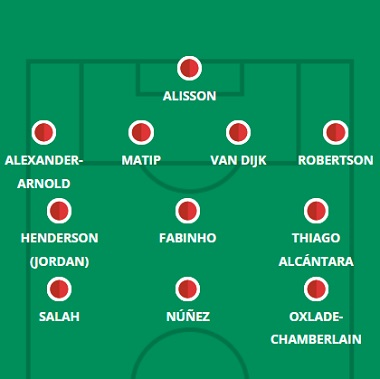
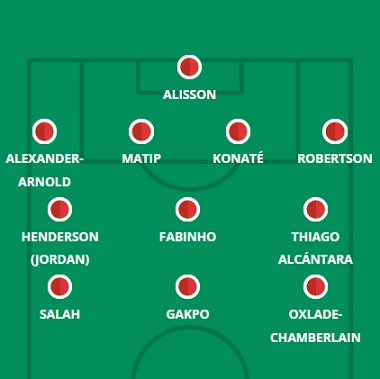
12/20

diff --git a/brentford.html b/brentford.html
@@ -63,15 +63,15 @@
     <hgroup>
         <h1> Provável Escalação</h1>
         <h2 class="direita"> por FabioVascão </h2>
-        <h3 class="direita"> Atualizado em 30/Novembro/2022 </h3>
+        <h3 class="direita"> Atualizado em 13/Janeiro/2023 </h3>
     </hgroup>
 
     <div class="selecao"><p><b><img src="images/logos/brentford.png" width="100rem" height="100rem"/> Brentford</b></p></div>
        
     <div class="escalacao">
         <div class="topo">
-            <h2 class="titulo">Ultimas Notícias</h2> <h4><p> Aaron Hickey (tornozelo), Kristoffer Ajer (joelho), Shandon Baptiste (músculo) e Frank Onyeka (coxa) não estão muito longe de retornar, mas devem ficar de fora novamente, enquanto Thomas Strakosha (tornozelo) pode estar de volta ao banco contra o West Ham depois de vários meses fora. A principal decisão de Thomas Frank será se deve começar com a formação 3-5-2 que ele normalmente reserva para os times 'maiores' e que funcionou bem contra os Spurs na primeira hora ou reverter para a configuração 4-3-3 que nós Estamos acostumados a ver Brentford adotar quando enfrenta lados ao seu redor. Os Hammers foram despachados por 2 a 0 em abril com os Bees na defesa, então há uma chance de que Zanka seja substituído como o meio-campo excedente no leste de Londres. Keane Lewis-Potter, Yoane Wissa e Sergi Canos são todas as possibilidades de figurar nos três primeiros se conseguirmos uma mudança de sistema, enquanto Josh Da Silva, Mikkel Damsgaard e Saman Ghoddos são alternativas de meio-campo se Frank estiver de olho no punitivo 68 Retorno de uma hora entre as rodadas 18 e 19. O influente Christian Norgaard, recentemente recuperado de uma lesão de longa duração, é certamente alguém que pode ter seus minutos administrados nos próximos dias.</p></h4><br>
-            <h4><strong>Dúvidas:</strong> Ajer, Baptiste, Hickey, Onyenka e Strakosha. </h4>
+            <h2 class="titulo">Ultimas Notícias</h2> <h4><p> Pontus Jansson (coxa), Shandon Baptiste (músculo), Frank Onyeka (coxa) e Aaron Hickey (condição física) permaneceram afastados, mas Ivan Toney (músculo) está de volta disponível e, nas palavras de seu técnico, será titular neste fim de semana. Thomas Frank pode estar em um dilema em relação à formação inicial, já que a implantação do 3-5-2 que ele normalmente usa contra os seis times grandes fez com que os Bees saíssem invictos de uma sequência de quatro partidas muito complicada. Mas a visita ao Bournemouth, sem um gol no campeonato desde novembro, sem dúvida tentará o técnico do Brentford a revisitar um 4-3-3 mais ofensivo, talvez eliminando um zagueiro excedente na forma de Zanka e substituindo-o por um terceiro atacante. ; Yoane Wissa, Keane Lewis-Potter, Mikkel Damsgaard, Sergi Canos e o novo garoto Kevin Schade estarão competindo por uma vaga ao lado de Toney e Bryan Mbeumo se isso acontecer. O artilheiro da rodada 18, Josh Da Silva, também pode substituir Vitaly Janelt se Frank optar por uma abordagem mais ofensiva e Kristoffer Ajer for uma alternativa a Mads Roerslev como lateral-direito, mas Mbeumo, Toney, Christian Norgaard, Mathias Jensen, Rico Henry, Ben Mee e Ethan Pinnock parecem ter certeza de começar qualquer que seja a configuração.</p></h4><br>
+            <h4><strong>Dúvidas:</strong> Baptiste, Hickey, Onyenka e Jansson. </h4>
         </div>
         <aside>
             <figure>

diff --git a/arsenal.html b/arsenal.html
@@ -63,15 +63,15 @@
     <hgroup>
         <h1> Provável Escalação</h1>
         <h2 class="direita"> por FabioVascão </h2>
-        <h3 class="direita"> Atualizado em 30/Novembro/2022 </h3>
+        <h3 class="direita"> Atualizado em 13/Janeiro/2023 </h3>
     </hgroup>
 
     <div class="selecao"><p><b><img src="images/logos/arsenal.svg" width="100rem" height="100rem"/> Arsenal</b></p></div>
        
     <div class="escalacao">
         <div class="topo">
-            <h2 class="titulo">Ultimas Notícias</h2> <h4><p> Mikel Arteta não dará sua conferência de imprensa pré-jogo até o final da tarde de sexta-feira, então teremos um aviso muito curto sobre se algum de seus jogadores se juntou a Gabriel Jesus (joelho) e Reiss Nelson (músculo) na lista de lesões e se Takehiro Tomiyasu (coxa) e Emile Smith Rowe (virilha) estão aptos o suficiente para voltar ao time em Brighton. Alguém que voltou ao time da rodada na 17ª rodada foi Oleksandr Zinchenko, que foi nomeado entre os reservas e emergiu para uma participação especial de 17 minutos contra o West Ham. A vaga de lateral-esquerdo de Kieran Tierney é provavelmente a única em disputa no Amex, com Zinchenko aparentemente a primeira escolha de Arteta nessa posição quando está em forma, mas sem qualidade de jogo depois de não ter participado de nenhum dos amistosos pré-reinício dos Gunners. Quanto ao resto do XI previsto, todos eles - exceto o substituto de Jesus, Eddie Nketiah - começaram todas as partidas da liga para as quais estiveram disponíveis em 2022/23. Arteta preferiu o ímpeto ao frescor da última vez que os Gunners foram apresentados com três jogos da liga em uma semana e com cinco dias entre as semanas 16 e 17, não esperamos uma rotação em massa na costa sul.</p></h4><br>
-            <h4><strong>Dúvidas:</strong> Jesus, Nelson, Smith-Rowe  e Tomiyasu.</h4>
+            <h2 class="titulo">Ultimas Notícias</h2> <h4><p> Tendo dito anteriormente que Bukayo Saka estava "bem" após sua substituição forçada no Oxford United na segunda-feira, Mikel Arteta introduziu o menor elemento de dúvida - "Acho que ele ficará bem" - para manter todos em dúvida antes do derby do norte de Londres. Em outros lugares, Gabriel Jesus (joelho) e Reiss Nelson (músculo) permanecem na lista de lesões, mas o Arsenal tem um atestado de saúde indo para o derby do norte de Londres, com Emile Smith Rowe fazendo seu tão esperado retorno como reserva no meio da semana. O XI titular dos Gunners tem sido sem dúvida o time mais fácil de prever em 2022/23, tal tem sido a preferência de Mikel Arteta por impulso enquanto suas tropas estão no topo da divisão. Neste XI aqui, todos, exceto o substituto de Jesus, Eddie Nketiah e Oleksandr Zinchenko, começaram todas as partidas da liga para as quais estiveram disponíveis em 2022/23. Mesmo assim, sabemos que Zinchenko é a primeira escolha de Arteta como lateral-esquerdo (seu único banco veio de uma lesão) e Nketiah está privado de uma competição significativa enquanto Jesus permanecer indisponível. Fabio Vieira entraria na equação se Saka perdesse, com Marquinhos ainda menos testado neste nível e Smith-Rowe certamente ainda não está pronto para começar.</p></h4><br>
+            <h4><strong>Dúvidas:</strong> Jesus, Nelson e Saka.</h4>
         </div>
         <aside>
             <figure>

diff --git a/spurs.html b/spurs.html
@@ -63,15 +63,15 @@
     <hgroup>
         <h1> Provável Escalação</h1>
         <h2 class="direita"> por FabioVascão </h2>
-        <h3 class="direita"> Atualizado em 30/Novembro/2022 </h3>
+        <h3 class="direita"> Atualizado em 13/Janeiro/2023 </h3>
     </hgroup>
 
     <div class="selecao"><p><b><img src="images/logos/tottenham.png" width="100rem" height="100rem"/> Tottenham</b></p></div>
        
     <div class="escalacao">
         <div class="topo">
-            <h2 class="titulo">Ultimas Notícias</h2> <h4><p> Cristian Romero retorna da seleção com a Argentina para reforçar os números do Spurs na defesa, mas Rodrigo Bentancur, embora livre de suspensão, requer uma ressonância magnética em uma lesão na virilha e permanece de fora. Lucas Moura (tendão) e Richarlison (coxa) ainda afastados aparentemente consolidariam as partidas para os três primeiros que alinharam em Brentford, enquanto a ausência de Bentancur traz boas notícias para as perspectivas de Yves Bissouma em tempo de jogo. Existem alternativas em cada caso (Bryan Gil e Oliver Skipp), mas eles tiveram apenas duas partidas na liga nesta temporada e nem foram chamados como substitutos na 17ª rodada. expulsando Japhet Tanganga do papel de zagueiro direito, com Romero assumindo seu lugar se estiver totalmente recarregado e Davinson Sanchez entrando em cena, caso contrário. Com seis dias separando os jogos da Gameweek 17 e 18 do Spurs, a fadiga não deve ser o problema que costuma ser nesta época do ano. Clement Lenglet, Ivan Perisic e Matt Doherty esperam manter suas camisas para a visita do Villa, mas com um confronto com o Crystal Palace 72 horas depois deste, Ben Davies, Ryan Sessegnon e Emerson Royal poderão em breve dar uma olhada - nas três posições de maior risco. Hugo Lloris certamente retornará aqui também, tendo estado apenas no banco no Boxing Day após seu retorno tardio da Copa do Mundo.</p></h4><br>
-            <h4><strong>Dúvidas:</strong> Richarlison, Lucas Moura, Spence e Bentancur.</h4>
+            <h2 class="titulo">Ultimas Notícias</h2> <h4><p> Antonio Conte disse na sexta-feira que “acha” que Dejan Kulusevski (músculo) estará “pronto para jogar”, mas acrescentou que o clube não “correrá riscos” com Rodrigo Bentancur (virilha) e Richarlison (coxa), que, no entanto, estão se aproximando um retorno e será avaliado em treinamento. Lucas Moura (tendão) também segue de fora. Por melhor que Bryan Gil tenha sido ultimamente, não seria uma surpresa ver Kulusevski cair de pára-quedas direto para os três primeiros, dada a sua importância anterior para a equipe e considerando que ele está fora de ação há apenas quinze dias. O retorno de Yves Bissouma da suspensão e uma pequena lesão também é oportuno se Bentancur não estiver em risco, já que Conte certamente relutará em iniciar um Oliver Skipp de aparência enferrujada no derby do norte de Londres. Os cinco defensores que começaram no Palace estavam todos descansados na FA Cup no último fim de semana; Matt Doherty e Ivan Perisic já começaram três partidas consecutivas da liga cada um, depois que a rotação foi prejudicada no início da temporada.</p></h4><br>
+            <h4><strong>Dúvidas:</strong> Richarlison, Lucas Moura, Kulusevski e Bentancur.</h4>
         </div>
         <aside>
             <figure>

diff --git a/liverpool.html b/liverpool.html
@@ -63,15 +63,15 @@
     <hgroup>
         <h1> Provável Escalação</h1>
         <h2 class="direita"> por FabioVascão </h2>
-        <h3 class="direita"> Atualizado em 30/Novembro/2022 </h3>
+        <h3 class="direita"> Atualizado em 13/Janeiro/2023 </h3>
     </hgroup>
 
     <div class="selecao"><p><b><img src="images/logos/liverpool.png" width="100rem" height="100rem"/> Liverpool</b></p></div>
        
     <div class="escalacao">
         <div class="topo">
-            <h2 class="titulo">Ultimas Notícias</h2> <h4><p> Ibrahima Konate é o único jogador anteriormente indisponível que Jurgen Klopp receberá de volta para a visita ao Leicester, com Roberto Firmino (panturrilha), Curtis Jones (condição física) e James Milner (coxa) ainda a alguns dias de distância e Arthur (músculo), Diogo Jota (coxa) e Luis Diaz (joelho) na lista de ausentes de médio a longo prazo. A nova contratação de Cody Gakpo também é muito improvável de estar envolvida, salvo um milagre com a burocracia. Tudo isso deixa Klopp sem muito por onde escolher, e há sugestões de que ele nomeará um time inalterado para o confronto de sexta à noite. Harvey Elliott, Naby Keita, Joe Gomez, Kostas Tsimikas, Fabio Carvalho e Stefan Bajcetic estarão entre os substitutos novamente se for o caso, mas certamente veremos participações especiais da maioria daqueles contra os Foxes e talvez comece de um punhado na Gameweek 19, já que os Reds têm menos de 68 horas entre os jogos de Leicester e Brentford.</p></h4><br>
-            <h4><strong>Dúvidas:</strong> Firmino, Díaz, Milner, Arthur, Diogo Jota e Jones.</h4>
+            <h2 class="titulo">Ultimas Notícias</h2> <h4><p> Virgil van Dijk (coxa), Arthur (muscular), Diogo Jota (coxa) e Luis Diaz (joelho) permanecem de fora e Roberto Firmino (panturrilha) teve um revés, mas James Milner (coxa) e Stefan Bajcetic (quadril) estão de volta treinamento e pode entrar em disputa. Há muito mais incerteza sobre Darwin Nunez, que perdeu o treinamento esta semana devido a uma lesão "menor" de natureza não especificada. Jurgen Klopp disse na sexta-feira que o problema do uruguaio "não foi grave, mas ainda o manteve fora dos treinos", acrescentando que o clube ainda aguarda mais informações sobre o problema. Mais tarde, ao discutir as transferências, afirmou que "quatro dos nossos jogadores ofensivos estão lesionados", inicialmente dizendo que "não [estariam de volta] amanhã" antes de acrescentar que "Darwin em breve" voltaria. Portanto, há alguma preocupação óbvia de curto prazo sobre a disponibilidade de Darwin no Amex, o que deve garantir uma largada para a nova contratação Cody Gakpo ao lado de Mohamed Salah e um de Alex Oxlade-Chamberlain ou Fabio Carvalho na frente três. A zaga também quase se destaca com van Dijk fora, mas há mais opções no meio do parque, onde Milner, Bajcetic, Naby Keita e Harvey Elliott são alternativas ao trio que estamos acostumados a ver nos últimos anos.</p></h4><br>
+            <h4><strong>Dúvidas:</strong> Firmino, Díaz, Arthur, Diogo Jota, Van Dijk e Nunez.</h4>
         </div>
         <aside>
             <figure>

diff --git a/brighton.html b/brighton.html
@@ -63,15 +63,15 @@
     <hgroup>
         <h1> Provável Escalação</h1>
         <h2 class="direita"> por FabioVascão </h2>
-        <h3 class="direita"> Atualizado em 30/Novembro/2022 </h3>
+        <h3 class="direita"> Atualizado em 13/Janeiro/2023 </h3>
     </hgroup>
 
     <div class="selecao"><p><b><img src="images/logos/brighton.png" width="100rem" height="100rem"/> Brighton</b></p></div>
        
     <div class="escalacao">
         <div class="topo">
-            <h2 class="titulo">Ultimas Notícias</h2> <h4><p> Jakub Moder (joelho) continua na lista de lesionados, enquanto Adam Webster e Danny Welbeck (ambos músculos) ainda estão a alguns dias de uma recuperação. Além disso, Alexis Mac Allister continua de licença pós-Copa do Mundo e Moises Caicedo fica de fora por suspensão, então Roberto De Zerbi está quase esgotado para a visita ao Arsenal. Billy Gilmour espera ter uma chance na casa das máquinas na ausência dos dois regulares, com a única alternativa real sendo deixar Adam Lallana um pouco mais fundo ao lado de Pascal Gross e trazer Denis Undav ou Jeremy Sarmiento mais à frente. Fora do XI previsto, nenhum membro da equipe disponível de Brighton começou uma única partida da liga nesta temporada - e isso inclui Tariq Lamptey, que continua sendo uma alternativa a Joel Veltman como lateral-direito.</p></h4><br>
-            <h4><strong>Dúvidas:</strong> Mac Allister, Moder, Mwepu, Webster, Caicedo e Welbeck. </h4>
+            <h2 class="titulo">Ultimas Notícias</h2> <h4><p> Jakub Moder (joelho) continua na lista de lesionados, enquanto Leandro Trossard não será considerado para a seleção em meio a relações azedas entre jogador e técnico. O Brighton está em boa forma, com três vitórias impressionantes fora de casa na liga e na copa, pontuadas por uma derrota divertida para o Arsenal em dezembro. Não esperamos muitas mudanças para este confronto contra o Liverpool, então, mas Adam Webster e Danny Welbeck se recuperaram de lesões desde a 19ª rodada e podem exercer alguma pressão sobre os adjuntos impressionantes Levi Colwill e Evan Ferguson no meio-campo e centro. -forward respectivamente. Alexis Mac Allister também pode voltar à equação inicial do XI depois de ser gradualmente recuado após sua corrida para a final da Copa do Mundo, e recentemente vimos Roberto De Zerbi usá-lo em um papel mais avançado do que testemunhamos antes do Qatar. 2022. Uma posição de número 10 ocupada fugazmente por Jeremy Sarmiento e Adam Lallana certamente está em jogo, especialmente com Trossard não aparecendo. O resto da equipe parece relativamente estável, exceto talvez como lateral-direito, onde Tariq Lamptey começou na Gameweek 18 e na FA Cup no fim de semana passado.</p></h4><br>
+            <h4><strong>Dúvidas:</strong> Moder, Mwepu e Trossard. </h4>
         </div>
         <aside>
             <figure>

diff --git a/fulham.html b/fulham.html
@@ -70,7 +70,7 @@
        
     <div class="escalacao">
         <div class="topo">
-            <h2 class="titulo">Ultimas Notícias</h2> <h4><p> Neeskens Kebano (Aquiles) continua fora e Shane Duffy está em dúvida por causa da doença, enquanto está um em, um fora na frente de suspensão: Aleksandar Mitrovic retorna de uma partida, mas Antonee Robinson agora tem que cumprir sua própria suspensão após pegando uma quinta reserva da campanha na quinta-feira.</p></h4><br>
+            <h2 class="titulo">Ultimas Notícias</h2> <h4><p> Neeskens Kebano (Aquiles) continua fora e Shane Duffy está em dúvida por causa da doença, enquanto é um em, um fora na frente de suspensão: Aleksandar Mitrovic retorna de uma suspensão de uma partida, mas Antonee Robinson agora tem que cumprir sua própria suspensão depois de pegar uma quinta reserva da campanha na quinta-feira. Tim Ream pode passar para a lateral-esquerda para cobrir (Issa Diop entrando no meio-campo), mas Marco Silva deu a entender que Layvin Kurzawa iria substituí-lo, dizendo que era um "momento para ele aparecer". A reviravolta de 64 horas é um fator óbvio a se considerar no que diz respeito à seleção do time, mas Silva não se preocupou com as mudanças nos períodos anteriores de maior movimento: na semana de três jogos entre o Natal e o Ano Novo, por exemplo, sua única alteração foi Tosin Adarabioyo substitui Issa Diop no meio-campo. Dan James e Harry Wilson são possibilidades amplas, mas não exatamente exigentes para serem incluídos por mérito, enquanto Tom Cairney é alguém que repetidamente impressionou fora do banco, mas continua sendo usado como um substituto de impacto.</p></h4><br>
             <h4><strong>Dúvidas:</strong> Kebano, Duffy e Robinson. </h4>
         </div>
         <aside>
